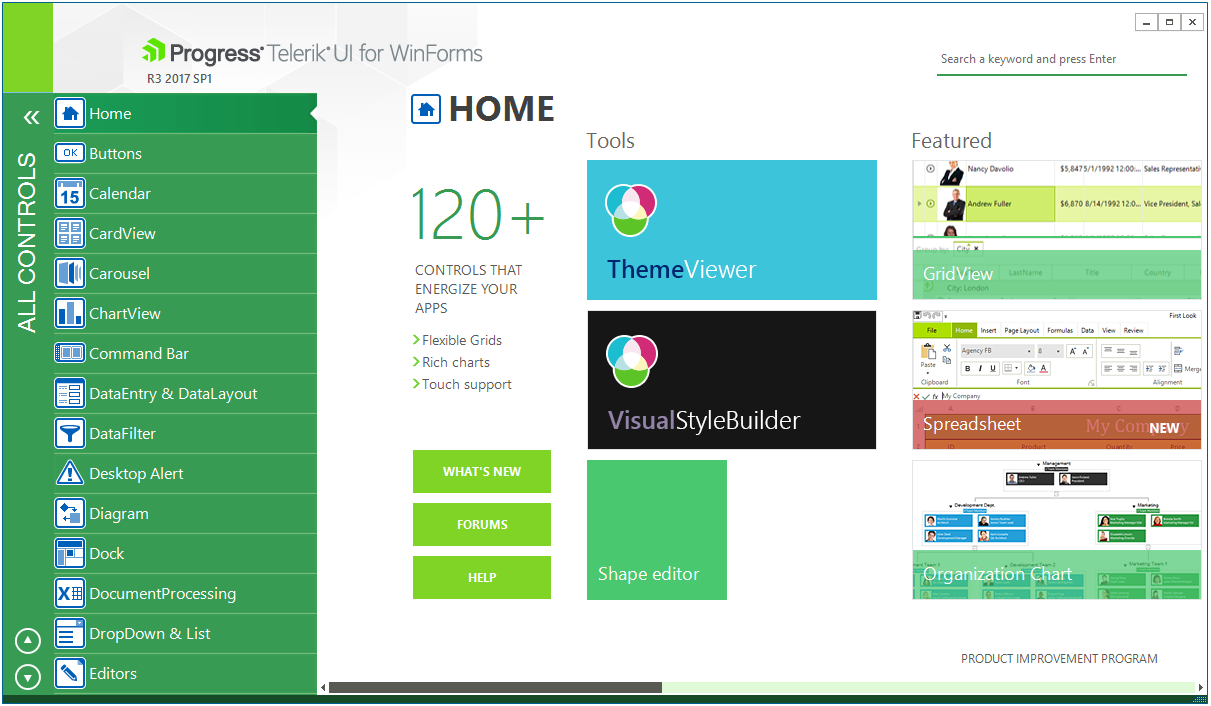
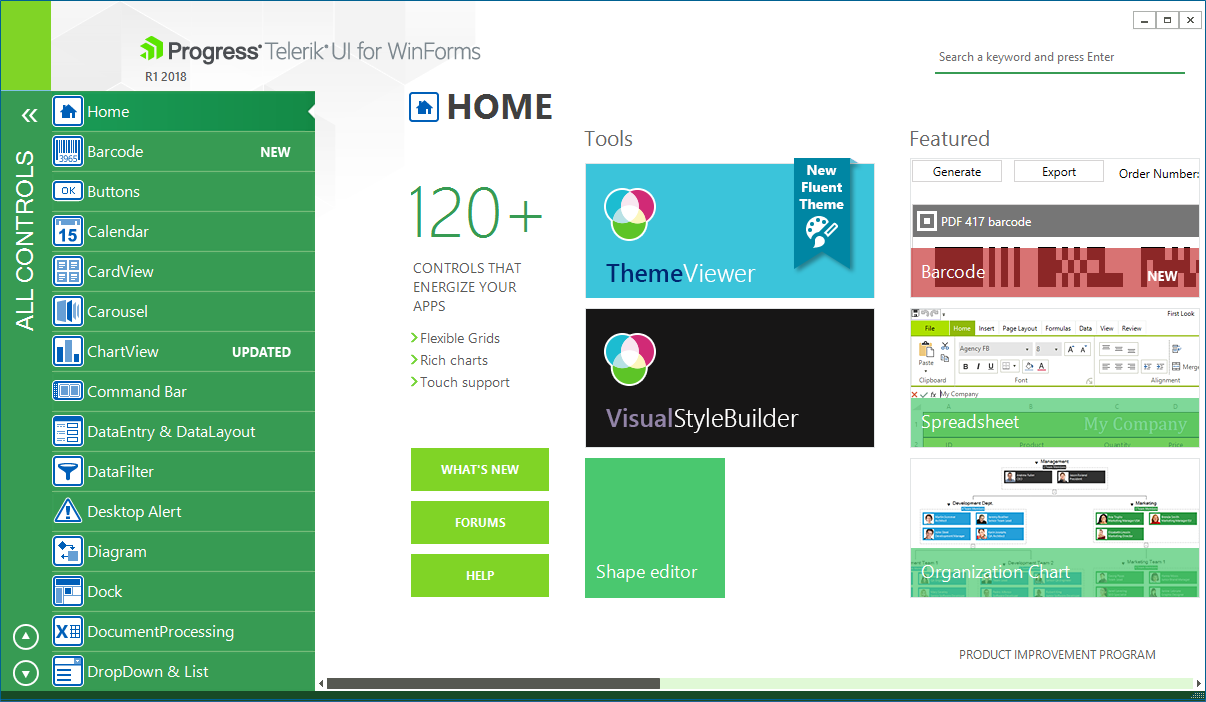
Updated overview article for release

diff --git a/introduction.md b/introduction.md
@@ -17,7 +17,8 @@ previous_url: overview, RadControlsForWinForms
 
 Telerik UI for for WinForms includes over 120 UI controls that you can use to easily build unique and visually stunning Line of Business applications. Boasting a well-designed architecture and CAB support, Telerik UI for for WinForms controls are perfectly suited for your Enterprise desktop development. 
 
-* [ApplicationMenu]({%slug winforms/menus/applicationmenu%})  
+* [ApplicationMenu]({%slug winforms/menus/applicationmenu%})
+* [Barcode]({%slug winforms/barcode/overview%})  
 * BreadCrumb
 * [BulletGraph]({%slug winforms/gauges/bulletgraph%})
 * [Calendar]({%slug winforms/calendar%})

diff --git a/installation-deployment-and-distribution/redistributing-telerik-ui-for-winforms.md b/installation-deployment-and-distribution/redistributing-telerik-ui-for-winforms.md
@@ -352,6 +352,10 @@ Telerik.WinControls.dll</td></tr><tr><td>
 
 Telerik.WinControls.UI.dll</td></tr><tr><td>
 
+<b>RadBarcode</b></td><td>
+
+Telerik.WinControls.UI.dll</td></tr><tr><td>
+
 <b>RadBreadCrumb</b></td><td>
 
 Telerik.WinControls.UI.dll</td></tr><tr><td>

diff --git a/installation-deployment-and-distribution/application-deployment.md b/installation-deployment-and-distribution/application-deployment.md
@@ -83,6 +83,10 @@ Telerik.WinControls.dll</td></tr><tr><td>
 
 Telerik.WinControls.UI.dll</td></tr><tr><td>
 
+<b>RadBarcode</b></td><td>
+
+Telerik.WinControls.UI.dll</td></tr><tr><td>
+
 <b>RadBreadCrumb</b></td><td>
 
 Telerik.WinControls.UI.dll</td></tr><tr><td>
